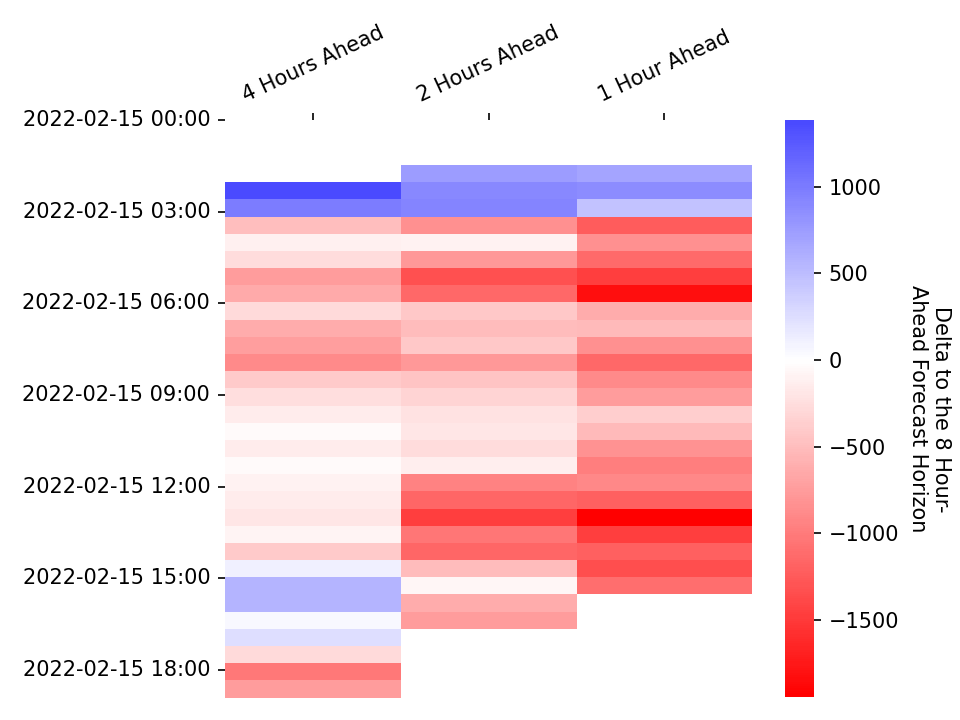
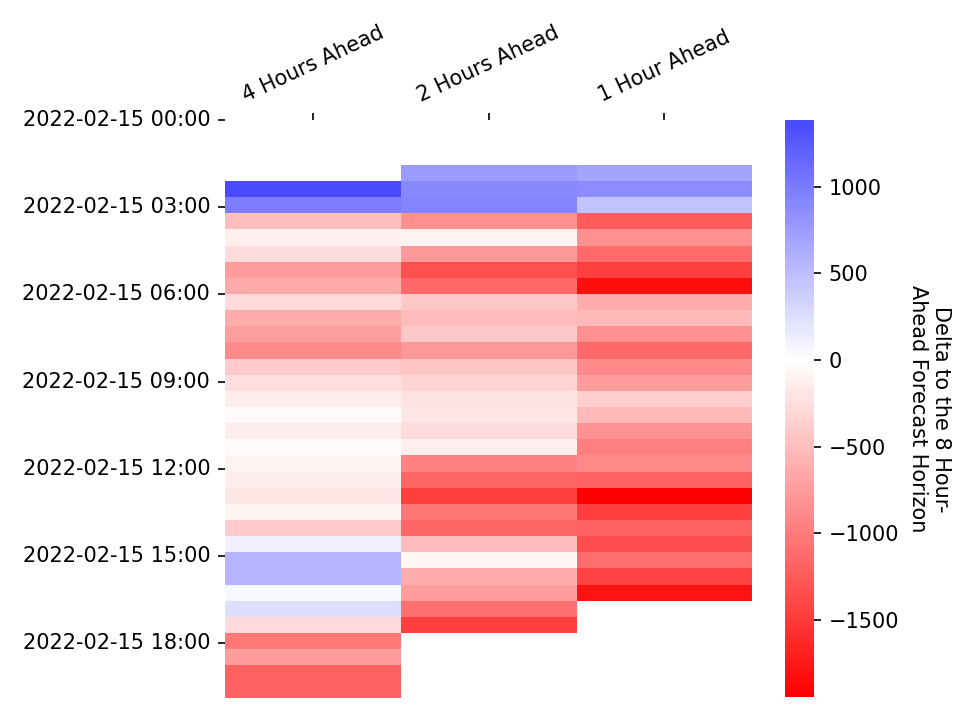
Apply automatic changes

diff --git a/docs/js/map.js b/docs/js/map.js
@@ -144,7 +144,7 @@ document.addEventListener("DOMContentLoaded", function() {
                 follow: 1
             });
             mymap.addControl(sliderControl);
-            sliderControl.startSlider(334);
+            sliderControl.startSlider(335);
         });
     });
 });

diff --git a/docs/visualisations.md b/docs/visualisations.md
@@ -60,7 +60,7 @@ In each settlement period the system operator publishes the de-rated margin fore
 * At 1200 hours on each calendar day for all Settlement Periods for which Gate Closure has not yet passed and which occur within the current Operational Day or the following Operational Day; and
 * At eight, four, two and one hour(s) prior to the beginning of the Settlement Period to which the De-Rated Margin Forecast relates.
 
-These figures will be updated on an hourly basis, the last update was at: 2022-02-15 14:35
+These figures will be updated on an hourly basis, the last update was at: 2022-02-15 15:15
 
 <br>
 
@@ -83,7 +83,7 @@ The following heatmap shows how the more recent de-rated margin forecasts deviat
 
 ### Power Output Map
 
-Last Updated: 2022-02-15 14:35
+Last Updated: 2022-02-15 15:15
 
 This map shows the power output of individual plants connected to the transmission grid as stated in their most recent Physical Notifications. This data can be retrieved through the *PHYBMDATA* BMRS stream, the out-turn data can be viewed one week later through the *B1610* stream. The scrollbar at the top of the map can be used to view how the generation sources have changed their output over the last week, the layer control can be used to toggle on/off the transmission network, and the plants themselves can be clicked to reveal additional information. The plant location data used in this map has been taking from a sister project, [the Power Station Dictionary](https://osuked.github.io/Power-Station-Dictionary/), which aims to link between data about individual power plants.
 
